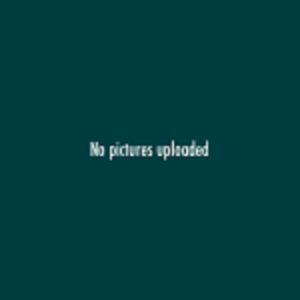
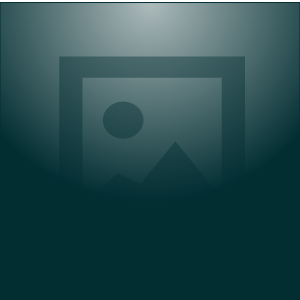
asd

diff --git a/src/app/recipe/recipe.component.html b/src/app/recipe/recipe.component.html
@@ -57,15 +57,13 @@
             <a (click)="showPic(recipe.recipe_pictures[2])" data-toggle="modal" data-target="#myModal"><img class="recipe-img-last" src="{{baseUrl}}/{{recipe.recipe_pictures[2].picture.thumb.url}}"></a><span><i>&copy;
             {{recipe.recipe_pictures[2].author}}</i></span><br></div>-->
 
-                <div *ngFor="let picture of pictureSet">
-                    <img *ngIf="picture == 'nopic'" class="recipe-img" src="assets/placeholder_thumb.png">
-                    <div *ngIf="picture != 'nopic'">
-                        <a *ngIf="picture != 'nopic'" (click)="showPic(picture)" data-toggle="modal" data-target="#myModal">
-                            <img *ngIf="picture != nopic" class="recipe-img" src="{{baseUrl}}/{{picture.picture.thumb.url}}">
+                <div *ngFor="let picture of recipe.recipe_pictures">
+                        <a (click)="showPic(picture)" data-toggle="modal" data-target="#myModal">
+                            <img class="recipe-img" src="{{baseUrl}}/{{picture.picture.thumb.url}}">
                         </a>
                         <span><i>&copy; {{picture.author}}</i></span><br>
-                    </div>
                 </div>
+              <img *ngIf="recipe.recipe_pictures.length == 0" class="recipe-img" src="assets/placeholder_thumb.png">
 
             </div>
             <!-- muuttuva näkymä aineosat, muut tiedot <-> notesit -->

diff --git a/src/app/recipe-form/recipe-form.component.html b/src/app/recipe-form/recipe-form.component.html
@@ -36,15 +36,13 @@
             <a (click)="showPic(recipe.recipe_pictures[2])" data-toggle="modal" data-target="#myModal"><img
               class="recipe-img-last" src="{{baseUrl}}/{{recipe.recipe_pictures[2].picture.thumb.url}}"></a><span><i>&copy;
             {{recipe.recipe_pictures[2].author}}</i></span><br></div>-->
-            <div *ngFor="let picture of pictureSet">
-            <img *ngIf="picture == 'nopic'" class="recipe-img" src="assets/placeholder_thumb.png">
-            <div *ngIf="picture != 'nopic'">
-            <a *ngIf="picture != 'nopic'" (click)="showPic(picture)" data-toggle="modal" data-target="#myModal">
-               <img *ngIf="picture != nopic" class="recipe-img" src="{{baseUrl}}/{{picture.picture.thumb.url}}">
+          <div *ngFor="let picture of recipe.recipe_pictures">
+            <a (click)="showPic(picture)" data-toggle="modal" data-target="#myModal">
+              <img class="recipe-img" src="{{baseUrl}}/{{picture.picture.thumb.url}}">
             </a>
             <span><i>&copy; {{picture.author}}</i></span><br>
-            </div>
           </div>
+          <img *ngIf="recipe.recipe_pictures.length == 0" class="recipe-img" src="assets/placeholder_thumb.png">
         </div>
         <!-- muuttuva näkymä aineosat, muut tiedot <-> notesit -->
         <div [@fadeIn]="on">

diff --git a/src/app/recipe-list/recipe-list.component.scss b/src/app/recipe-list/recipe-list.component.scss
@@ -161,11 +161,14 @@ md-card {
 
 .recipe-card {
     align-self: flex-start;
-    margin: 20px auto;
+    margin: auto;
+    -webkit-box-shadow: 3px 4px 5px 0px rgba(0,0,0,0.75);
+    -moz-box-shadow: 3px 4px 5px 0px rgba(0,0,0,0.75);
+   box-shadow: 3px 4px 5px 0px rgba(0,0,0,0.75);
 }
 
 .card-img-overlay {
-    background-color: rgba(0, 0, 0, 0.5);
+    background-color: rgba(0, 0, 0, 0.3);
 }
 
 .card-header-content {

diff --git a/src/app/directives/tinymce.directive.ts b/src/app/directives/tinymce.directive.ts
@@ -32,7 +32,7 @@ export class TinyEditor {
         selector: '[tiny-id=' + this.id + ']',
         schema: 'html5',
         height: 400,
-        plugins: "link textcolor",
+        plugins: "link lists",
         link_assume_external_targets: true,
         setup: (editor: any): void => {
           editor.on('keyup change', () => {

diff --git a/src/app/globals.ts b/src/app/globals.ts
@@ -4,7 +4,7 @@ export const Global = Object.freeze({
 
   //apiUrl:'https://api.friendlyspoon.me'
   //apiUrl:'http://localhost:3000'
-  apiUrl: 'http://devapi.friendlyspoon.me'
-  //apiUrl:'http://192.168.1.108:3000'
+  //apiUrl: 'http://devapi.friendlyspoon.me'
+  apiUrl:'http://192.168.1.233:3000'
 
 })

diff --git a/src/app/recipe-list/recipe-list.component.html b/src/app/recipe-list/recipe-list.component.html
@@ -1,4 +1,4 @@
-<div class="container-fluid recipe-list" [@fadeIn]="on">
+e<div class="container-fluid recipe-list" [@fadeIn]="on">
     <h1>Friendly Spoon</h1>
     <h3>is here for you! </h3>
     <h4><span *ngIf="recipes">{{recipes.length}} recipes and counting!</span></h4>
